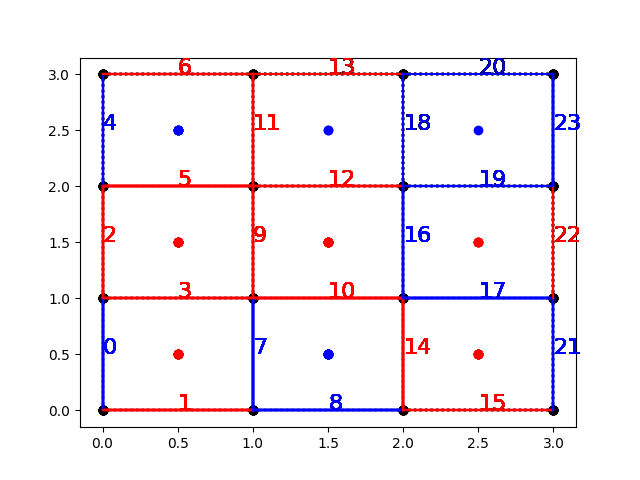
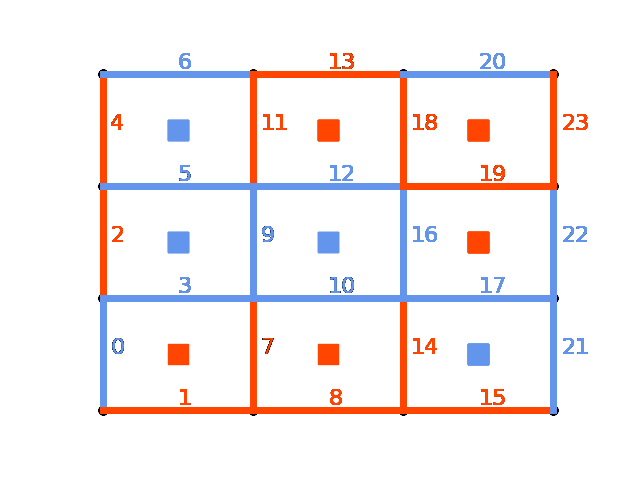
More neural net stuff

diff --git a/neural_net.py b/neural_net.py
@@ -8,20 +8,28 @@ class NeuralNet():
 
     def __init__(self):
         
-        self.layer_1 = np.zeros((1,24))
-        self.layer_2 = np.zeros((1,12))
-        self.layer_3 = np.zeros((1,6))
+        # Column vector layers #
+
+        self.layer_1 = np.zeros((24,1))
+        self.layer_2 = np.zeros((12,1))
+        self.layer_3 = np.zeros((6,1))
         self.output = np.zeros((1,1))
 
-        self.weights_1 = np.random.rand(24,24)
-        self.weights_2 = np.random.rand(24,12)
-        self.weights_3 = np.random.rand(12,6)
-        self.weights_4 = np.random.rand(6,1)
+        # Matching column vector biases # 
 
-        self.biases_1 = np.random.rand(1,24)
-        self.biases_2 = np.random.rand(1,12)
-        self.biases_3 = np.random.rand(1,6)
+        self.biases_1 = np.zeros((24,1))
+        self.biases_2 = np.zeros((12,1))
+        self.biases_3 = np.zeros((6,1))
         self.biases_4 = np.zeros((1,1))
+
+        # Weight matrices #
+
+        self.weights_1 = np.random.randn(24,24) * np.sqrt(1/24)
+        self.weights_2 = np.random.randn(12,24) * np.sqrt(1/24)
+        self.weights_3 = np.random.randn(6,12) * np.sqrt(1/12)
+        self.weights_4 = np.random.randn(1,6) * np.sqrt(1/6)
+
+        self.pre_sigmoid_output = np.zeros((1,1))
 
         self.alpha = 0.0001
         
@@ -32,35 +40,59 @@ class NeuralNet():
         return 1 / (1 + np.exp(-x))
         
     def propagate_layer_forward(self, weights, biases, previous_layer):
-        next_layer = np.matmul(previous_layer, weights) + biases
-
+        next_layer = np.matmul(weights, previous_layer) + biases
         return next_layer
     
     def propagate_network_forward(self, state):
         self.layer_1 = self.propagate_layer_forward(self.weights_1, self.biases_1, state)
         self.layer_2 = self.propagate_layer_forward(self.weights_2, self.biases_2, self.ReLU(self.layer_1))
         self.layer_3 = self.propagate_layer_forward(self.weights_3, self.biases_3, self.ReLU(self.layer_2))
-        output = self.sigmoid(self.propagate_layer_forward(self.weights_4, self.biases_4, self.ReLU(self.layer_3)))
-        return output
+        self.pre_sigmoid_output = self.propagate_layer_forward(self.weights_4, self.biases_4, self.ReLU(self.layer_3))
+        self.output = self.sigmoid(self.pre_sigmoid_output)
+        return self.output
         
     def binary_cross_entropy(self, prediction, truth):
+        prediction = np.clip(prediction, 1e-7, 1 - 1e-7)
         return -np.mean(truth * np.log(prediction) + (1 - truth) * np.log(1 - prediction))
     
-    def back_prop(self):
-        pass
+    def back_prop(self, prediction, truth):
+        loss_gradiant = self.binary_cross_entropy_gradient(prediction, truth)
+        print(f"Loss gradient: {loss_gradiant}")
+        sigmoid_gradient = self.sigmoid_gradient(self.pre_sigmoid_output)
+        print(f"Sigmoid gradient: {sigmoid_gradient}")
+        delta_gradient = loss_gradiant * sigmoid_gradient
+        
+        # output weights #
+        
+        weight_4_gradient = delta_gradient * self.layer_3
+        biases_4_gradient = delta_gradient
+        
+        
+        self.weights_4 = self.weights_4 - (self.alpha * weight_4_gradient)
+        self.biases_4 = self.biases_4 - (self.alpha * biases_4_gradient)
+
+        # layer 3 weights # 
+
+
+        
+
 
     def binary_cross_entropy_gradient(self, prediction, truth):
+        prediction = np.clip(prediction, 1e-7, 1 - 1e-7)
         return -((truth/prediction)-(1-truth)/(1-prediction))
     
     def sigmoid_gradient(self, x):
         return self.sigmoid(x) * (1-self.sigmoid(x))
     
-
-
     def test_net(self, test_input):
         self.output = self.propagate_network_forward(test_input)
         print(self.output)
-        return self.output
+        truth = np.zeros((1,1))
+        print(truth)
+        loss = self.binary_cross_entropy(self.output, truth)
+        print(f"Loss: {loss}")
+        self.back_prop(self.output, truth)
+
         
         
 if __name__ == "__main__":
@@ -73,10 +105,10 @@ if __name__ == "__main__":
     test_input[0,15] = 1
     test_input[0,16] = 1
     test_input[0,23] = 1
-    print(test_input)
+    #print(test_input)
 
 myNet = NeuralNet()
-myNet.test_net(test_input)
+myNet.test_net(test_input.T)
 
 
         

diff --git a/game.py b/game.py
@@ -1,3 +1,4 @@
+from __future__ import annotations
 import numpy as np
 import matplotlib.pyplot as plt
 import agents
@@ -13,12 +14,12 @@ class Line():
         self.point_1 = points[0]
         self.point_2 = points[1]
         self.player = player
-        self.orientation = self.point_1[0]==self.point_2[0]
+        self.vertical = self.point_1[0]==self.point_2[0]
         self.mid_point = ((self.point_1[0]+self.point_2[0])/2, (self.point_1[1]+self.point_2[1])/2)
     
     @classmethod
-    def from_midpoint(cls, mid_point: tuple, orientation: bool):
-        if orientation:
+    def from_midpoint(cls, mid_point: tuple, vertical: bool):
+        if vertical:
             point_1 = (mid_point[0], int(mid_point[1]-0.5))
             point_2 = (mid_point[0], int(mid_point[1]+0.5))
         else:
@@ -39,9 +40,9 @@ class Box():
         self.player = player
         self.box_color = 'black'
         if self.player == 'player_1':
-            self.box_color = 'red'
+            self.box_color = 'orangered'
         if self.player == 'player_2':
-            self.box_color = 'blue'
+            self.box_color = 'cornflowerblue'
 
 class Grid():
 
@@ -93,22 +94,30 @@ class Grid():
             print(f"Box at {box.box_center} for {box.player}")
 
     def plot_grid(self):
+        myLineWidth = 5
         for point in self.points:
             plt.scatter(point.point_coords[0], point.point_coords[1], color='black')
         for i,line in enumerate(self.lines):
             if self.played_by_1[i] == 1:
-                line_color = 'red'
+                line_color = 'orangered'
                 linestyle = '-'
+                linewidth = myLineWidth
             elif self.played_by_2[i] == 1:
-                line_color = 'blue'
+                line_color = 'cornflowerblue'
                 linestyle = '-'
+                linewidth = myLineWidth
             else:
                 line_color = 'black'
-                linestyle = ':' 
-            plt.plot([line.point_1[0], line.point_2[0]], [line.point_1[1], line.point_2[1]], color=line_color, linestyle=linestyle)
-            plt.text(line.mid_point[0], line.mid_point[1], f'{i}', size=16, color=line_color)
+                linestyle = ':'
+                linewidth = myLineWidth / 2 
+            plt.axis('off')
+            plt.plot([line.point_1[0], line.point_2[0]], [line.point_1[1], line.point_2[1]], color=line_color, linestyle=linestyle, linewidth=linewidth)
+            if line.vertical is True:
+                plt.text(line.mid_point[0]+0.05, line.mid_point[1], f'{i}', size=16, color=line_color)
+            else:
+                plt.text(line.mid_point[0], line.mid_point[1]+0.05, f'{i}', size=16, color=line_color)
         for box in self.boxes:
-            plt.scatter(box.box_center[0], box.box_center[1], color=box.box_color)
+            plt.scatter(box.box_center[0], box.box_center[1], color=box.box_color, s=200, marker='s')
         plt.savefig('Game_state.png')
 
     def check_point_exists(self, coords: tuple) -> bool:
@@ -143,7 +152,7 @@ class Grid():
         line_to_check = Line(move)
         played_lines = [obj for obj, a, b in zip(self.lines, self.played_by_1, self.played_by_2) if a == 1 or b == 1]
 
-        if line_to_check.orientation:
+        if line_to_check.vertical:
             box_1_center = (line_to_check.mid_point[0]-0.5, line_to_check.mid_point[1])
             box_2_center = (line_to_check.mid_point[0]+0.5, line_to_check.mid_point[1])
             box_centers = [box_1_center, box_2_center]
@@ -198,7 +207,7 @@ class Grid():
 def play_game(size):
     myGrid = Grid(size)
     Player_1 = agents.agent(agent_type='User', player='player_1')
-    Player_2 = agents.agent(agent_type='Random', player='player_2')
+    Player_2 = agents.agent(agent_type='User', player='player_2')
     while sum(myGrid.played_by_1) + sum(myGrid.played_by_2) < len(myGrid.lines):
         state = list(zip(myGrid.played_by_1, myGrid.played_by_2))
         myGrid.plot_grid()
